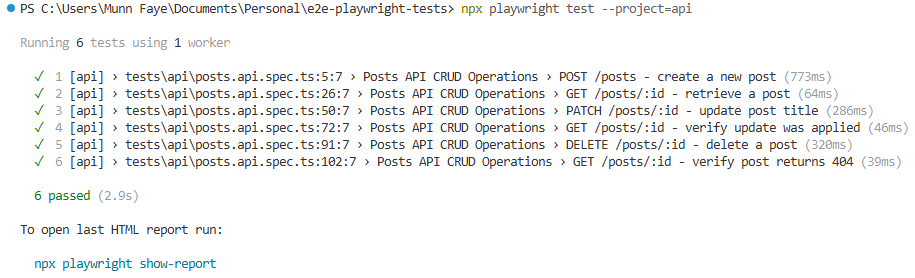
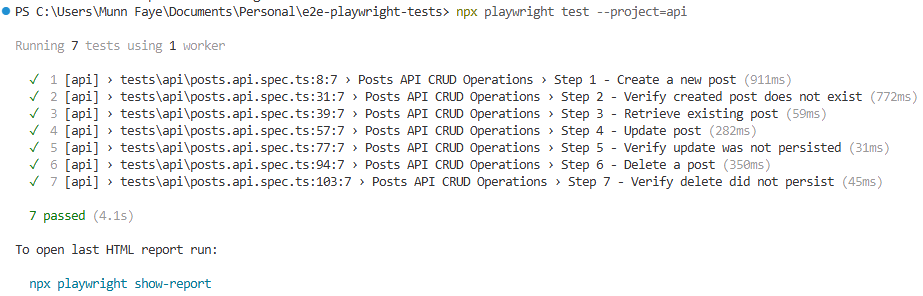
Fix API tests and add clearer steps

diff --git a/tests/api/posts.api.spec.ts b/tests/api/posts.api.spec.ts
@@ -1,10 +1,11 @@
 import { test, expect } from '@playwright/test';
-import { testPost, updatedTitle } from '../../constants/apiTestData';
+import { testPost, patchData, defaultPost, testId } from '../../constants/apiTestData';
+
+let createdPostId: number;
 
 test.describe.serial('Posts API CRUD Operations', () => {
-  const testId = 1;
 
-  test('POST /posts - create a new post', async ({ request }) => {
+  test('Step 1 - Create a new post', async ({ request }) => {
     const response = await request.post('/posts', {
       data: testPost
     });
@@ -17,15 +18,25 @@ test.describe.serial('Posts API CRUD Operations', () => {
     await test.step('Verify response body', async () => {
       const responseBody = await response.json();
 
-      expect(responseBody.id).toBeDefined();
+      expect(responseBody).toHaveProperty('id');
       expect(typeof responseBody.id).toBe('number');
       expect(responseBody.title).toBe(testPost.title);
       expect(responseBody.body).toBe(testPost.body);
-      expect(responseBody.userID).toBe(testPost.userID);
+      expect(responseBody.userId).toBe(testPost.userId);
+
+      createdPostId = responseBody.id;
     });
   });
 
-  test('GET /posts/:id - retrieve a post', async ({ request }) => {
+  test('Step 2 - Verify created post does not exist', async ({ request }) => {
+    const response = await request.get(`/posts/${createdPostId}`);
+
+    await test.step('Verify response status', async () => {
+      expect(response.status()).toBe(404);
+    });
+  });
+
+  test('Step 3 - Retrieve existing post', async ({ request }) => {
     const response = await request.get(`/posts/${testId}`);
 
     await test.step('Verify response status', async () => {
@@ -33,25 +44,19 @@ test.describe.serial('Posts API CRUD Operations', () => {
       expect(response.status()).toBe(200);
     });
 
-    await test.step('Verify response body', async () => {
+    await test.step('Verify response body matches default data', async () => {
       const responseBody = await response.json();
 
-      expect(responseBody.id).toBe(testId);
-      expect(responseBody.title).toBeDefined();
-      expect(responseBody.body).toBeDefined();
-      expect(responseBody.userId).toBeDefined();
-
-      expect(typeof responseBody.title).toBe('string');
-      expect(typeof responseBody.body).toBe('string');
-      expect(typeof responseBody.userId).toBe('number');
+      expect(responseBody.id).toBe(defaultPost.id);
+      expect(responseBody.userId).toBe(defaultPost.userId);
+      expect(responseBody.title).toBe(defaultPost.title);
+      expect(responseBody.body).toBe(defaultPost.body);
     });
   });
 
-  test('PATCH /posts/:id - update post title', async ({ request }) => {
+  test('Step 4 - Update post', async ({ request }) => {
     const response = await request.patch(`/posts/${testId}`, {
-      data: {
-        title: updatedTitle
-      }
+      data: patchData
     });
 
     await test.step('Verify response status', async () => {
@@ -59,15 +64,17 @@ test.describe.serial('Posts API CRUD Operations', () => {
       expect(response.status()).toBe(200);
     });
 
-    await test.step('Verify response body', async () => {
+    await test.step('Verify response body returns updated data', async () => {
       const responseBody = await response.json();
 
-      expect(responseBody.title).toBe(updatedTitle);
+      expect(responseBody).toHaveProperty('id');
       expect(responseBody.id).toBe(testId);
+      expect(responseBody.title).toBe(patchData.title);
+      expect(responseBody.body).toBe(patchData.body);
     });
   });
 
-  test('GET /posts/:id - verify update was applied', async ({ request }) => {
+  test('Step 5 - Verify update was not persisted', async ({ request }) => {
     const response = await request.get(`/posts/${testId}`);
 
     await test.step('Verify response status', async () => {
@@ -75,16 +82,16 @@ test.describe.serial('Posts API CRUD Operations', () => {
       expect(response.status()).toBe(200);
     });
 
-    await test.step('Verify response body', async () => {
+    await test.step('Verify original data remains unchanged', async () => {
       const responseBody = await response.json();
 
-      expect(responseBody.id).toBe(testId);
-      expect(responseBody.title).toBeDefined();
-      expect(responseBody.body).toBeDefined();
+      expect(responseBody.id).toBe(defaultPost.id);
+      expect(responseBody.title).toBe(defaultPost.title);
+      expect(responseBody.title).not.toBe(patchData.title);
     });
   });
 
-  test('DELETE /posts/:id - delete a post', async ({ request }) => {
+  test('Step 6 - Delete a post', async ({ request }) => {
     const response = await request.delete(`/posts/${testId}`);
 
     await test.step('Verify response status', async () => {
@@ -93,13 +100,21 @@ test.describe.serial('Posts API CRUD Operations', () => {
     });
   });
 
-  test('GET /posts/:id - verify post returns 404', async ({ request }) => {
-    const deletedId = 999;
-
-    const response = await request.get(`/posts/${deletedId}`);
+  test('Step 7 - Verify delete did not persist', async ({ request }) => {
+    const response = await request.get(`/posts/${testId}`);
 
     await test.step('Verify response status', async () => {
-      expect(response.status()).toBe(404);
+      expect(response.ok()).toBeTruthy();
+      expect(response.status()).toBe(200);
+    });
+
+    await test.step('Verify data still exists with default values', async () => {
+      const responseBody = await response.json();
+
+      expect(responseBody.id).toBe(defaultPost.id);
+      expect(responseBody.userId).toBe(defaultPost.userId);
+      expect(responseBody.title).toBe(defaultPost.title);
+      expect(responseBody.body).toBe(defaultPost.body);
     });
   });
 });

diff --git a/constants/apiTestData.ts b/constants/apiTestData.ts
@@ -1,11 +1,19 @@
-export const ENDPOINTS = {
-    posts: '/posts'
-};
-
 export const testPost = {
-    title: 'Test Post Creation',
-    body: 'This post was created to verify the API handles POST requests correctly',
-    userID: 1,
+  title: 'Weekend Plans',
+  body: 'Going to the beach this Saturday if the weather holds up.',
+  userId: 1
 };
 
-export const updatedTitle = 'Edited Post Title';
+export const patchData = {
+  title: 'Change of Plans',
+  body: 'Stay in and binge Netflix.'
+};
+
+export const defaultPost = {
+  userId: 1,
+  id: 1,
+  title: 'sunt aut facere repellat provident occaecati excepturi optio reprehenderit',
+  body: 'quia et suscipit\nsuscipit recusandae consequuntur expedita et cum\nreprehenderit molestiae ut ut quas totam\nnostrum rerum est autem sunt rem eveniet architecto'
+};
+
+export const testId = 1;
